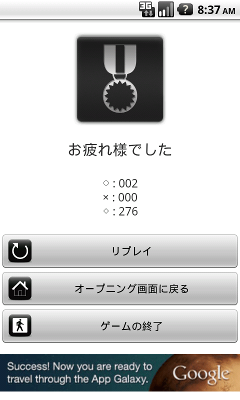
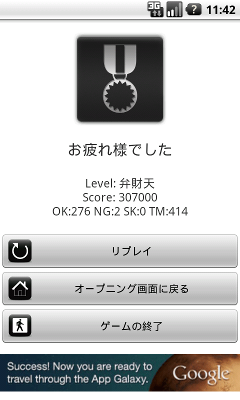
遊び方にリズムが進む見方について記述する

Changed region(s): [[0.2042, 0.42, 0.7875, 0.54], [0.5542, 0.0, 0.9917, 0.06]]

diff --git a/assets/usage.html b/assets/usage.html
@@ -43,7 +43,7 @@ li {
 </ol>
 
 <h3 id="head1">１．はじめに</h3>
-<p>このたびは、４時起きソフトの「般若心経・文字探し」をダウンロードいただき、誠にありがとうございます。</p>
+<p>このたびは、４時起きソフトの「よんたく般若心経」をダウンロードいただき、誠にありがとうございます。</p>
 <p>このアプリケーションは、般若心経をゲームで遊んでいるうちに覚えてしまおうという目的のもとに開発されました。</p>
 <p>ゲームをスタートしますと、画面に般若心経が縦書で表示されます（図1-A）。その横に４つの文字が表示されます（図1-B）。</p>
 <div><p>図1</p><img src="zu1.png" alt="図1"/></div>
@@ -68,6 +68,9 @@ li {
 <div><p>図3</p><img src="zu3.png" alt="図3"/></div>
 <p>左（左利き用）にしますと、４つの選択肢が左側に、般若心経（フリガナ付き）が右側に表示されます（図4）</p>
 <div><p>図4</p><img src="zu4.png" alt="図4"/></div>
+<h4>合いの手の音</h4>
+<p>お経を唱えている途中で入るカーンとかチーンとかいう合いの手の音を設定します。いろんな音がありますのでお好みにより調節してください。
+もちろん、音を出さなくすることも可能です。</p>
 <h4>リズム音</h4>
 <p>ボタンをタップしたときの音を設定します。いろんな音がありますのでお好みにより調節してください。
 もちろん、音を出さなくすることも可能です。</p>
@@ -100,10 +103,20 @@ li {
 <p>般若心経は、全部で２７８文字あります。</p>
 <p>最後の２７８文字目まで読み進めていきますとゲーム終了です。（図7）</p>
 <div><p>図7</p><img src="zu7.png" alt="図7" class="waku"/></div>
-<p>お疲れ様でしたの下にスコアが表示されます。○は正解の数、×は間違いの数、◇は一定時間内にタップできずにスキップされた数を表します。</p>
+<p>お疲れ様でしたの下にスコアが表示されます。</p>
+<p>Levelには、スコアに応じて代表的な仏様が表示されます。最高ランクの釈迦如来を出された方は、人間を超越したまさに神レベルの方です。</p>
+<p>OKは正解の数、NGは間違いの数、SKは一定時間内にタップできずにスキップされた数、TMはかかった時間（秒）を表します。</p>
 <p>「リプレイ」を選択しますと、もう一度ゲームを行います。</p>
 <p>「オープニング画面に戻る」を選択しますと、起動直後のオープニング画面に戻ります。</p>
 <p>「ゲームの終了」を選択しますと、本アプリケーションを終了します。</p>
+<h4>ヒント</h4>
+<p>唱えるタイミングについて</p>
+<p>最初は、勝手にカーソルが進んでいくのでどのタイミングで唱えたらいいのか戸惑うかと思います。次の要領で唱えていただくように最適化しております。</p>
+<p>(1)白いカーソルの部分の文字を見て、なんと唱えたらいいかを把握します。（この時点ではまだ発声しない)</p>
+<p>(2)次に、実際に声に出して発声します。と同時に画面をタップします。（カーソルが次に進みます）
+<p>(3)(1)に戻り、繰り返します。</p>
+<p>ようは、白くなった瞬間に唱えるのではなく、カーソルが次に移るときに唱えます。</p>
+<p>なお、唱えるタイミングは、全国曹洞宗青年会さんの<a href="http://www.youtube.com/watch?v=InkJE2PMX3Y" alt="" target="_balnk">摩訶般若波羅蜜多心経</a>の動画を参考にさせていただきました。</p>
 
 <h3 id="head7">７．最後に</h3>
 <p>般若心経とは、大乗仏教の心髄が説かれている、ありがたいお経とされています。</p>
@@ -111,7 +124,7 @@ li {
 <p>意味が分からないものを、意味もなく唱える、意味って何？</p>
 <p>意味が知りたくて、いろんな人のさまざまな解釈を読みましたが、ピンとこない。</p>
 <p>その中で、私がなるほどと理解できた動画をリンクしておきます。</p>
-<p><a href="http://www.youtube.com/watch?v=X9ebjqEUtYE" target="_balnk">宇宙論に対する仏教思想からの回答</a></p>
+<p><a href="http://www.youtube.com/watch?v=X9ebjqEUtYE" alt="" target="_balnk">宇宙論に対する仏教思想からの回答</a></p>
 
 </body>
 </html>
